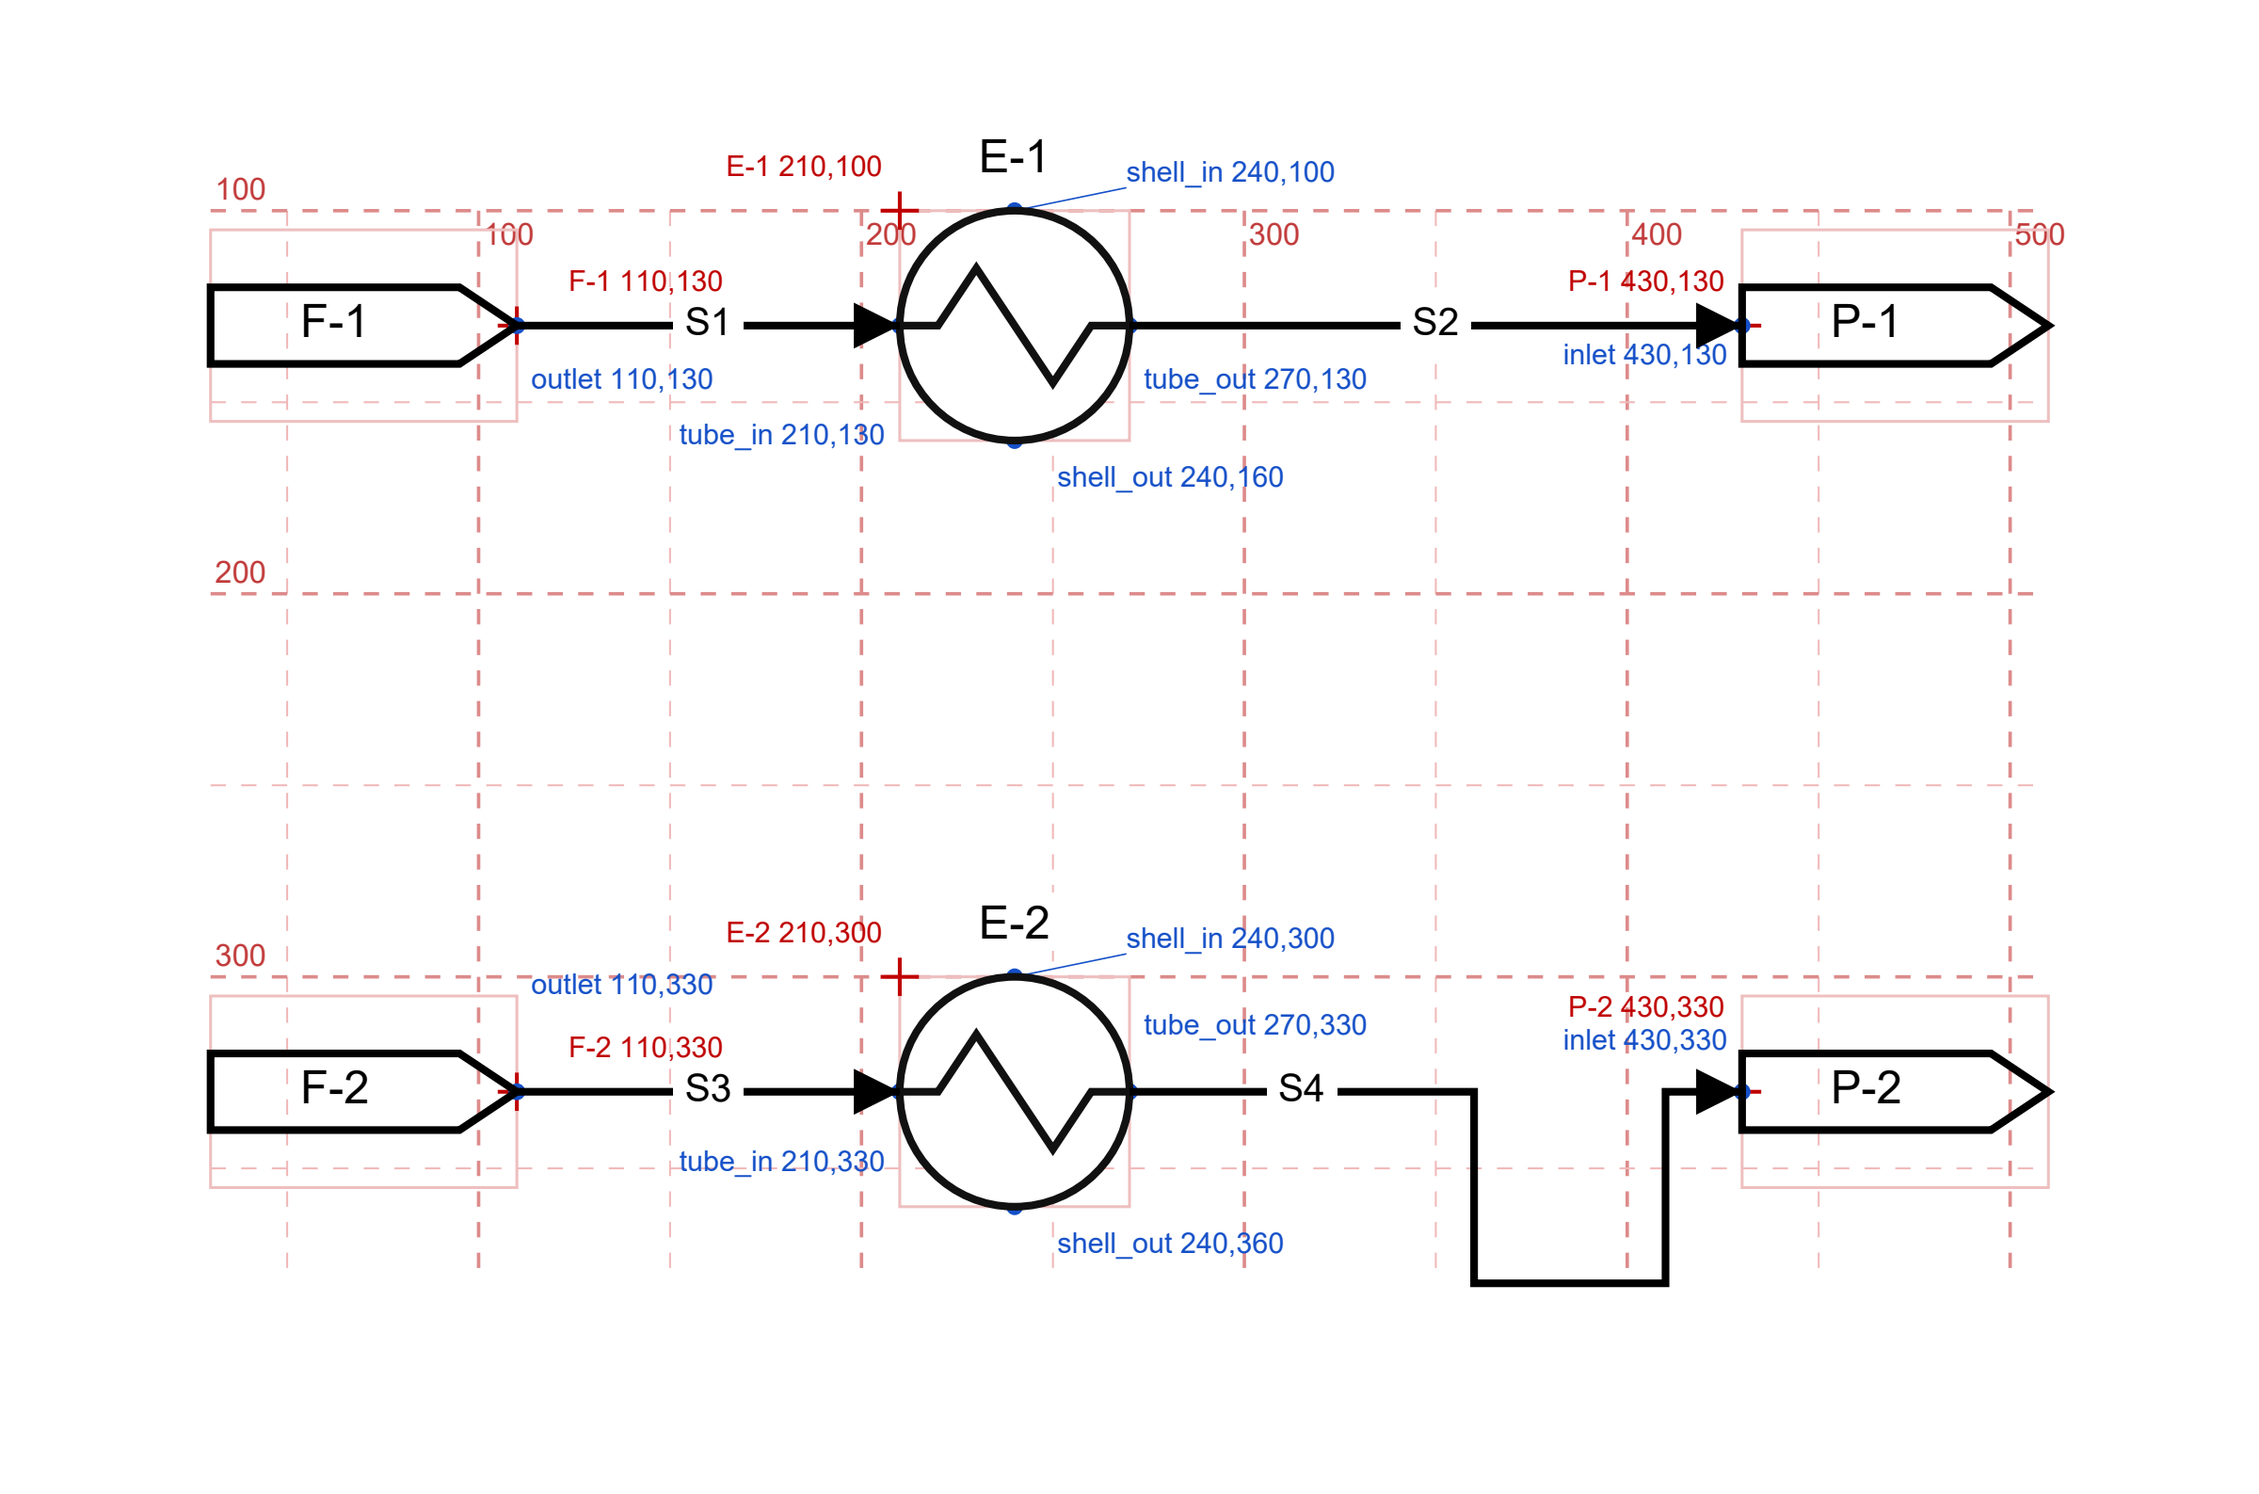
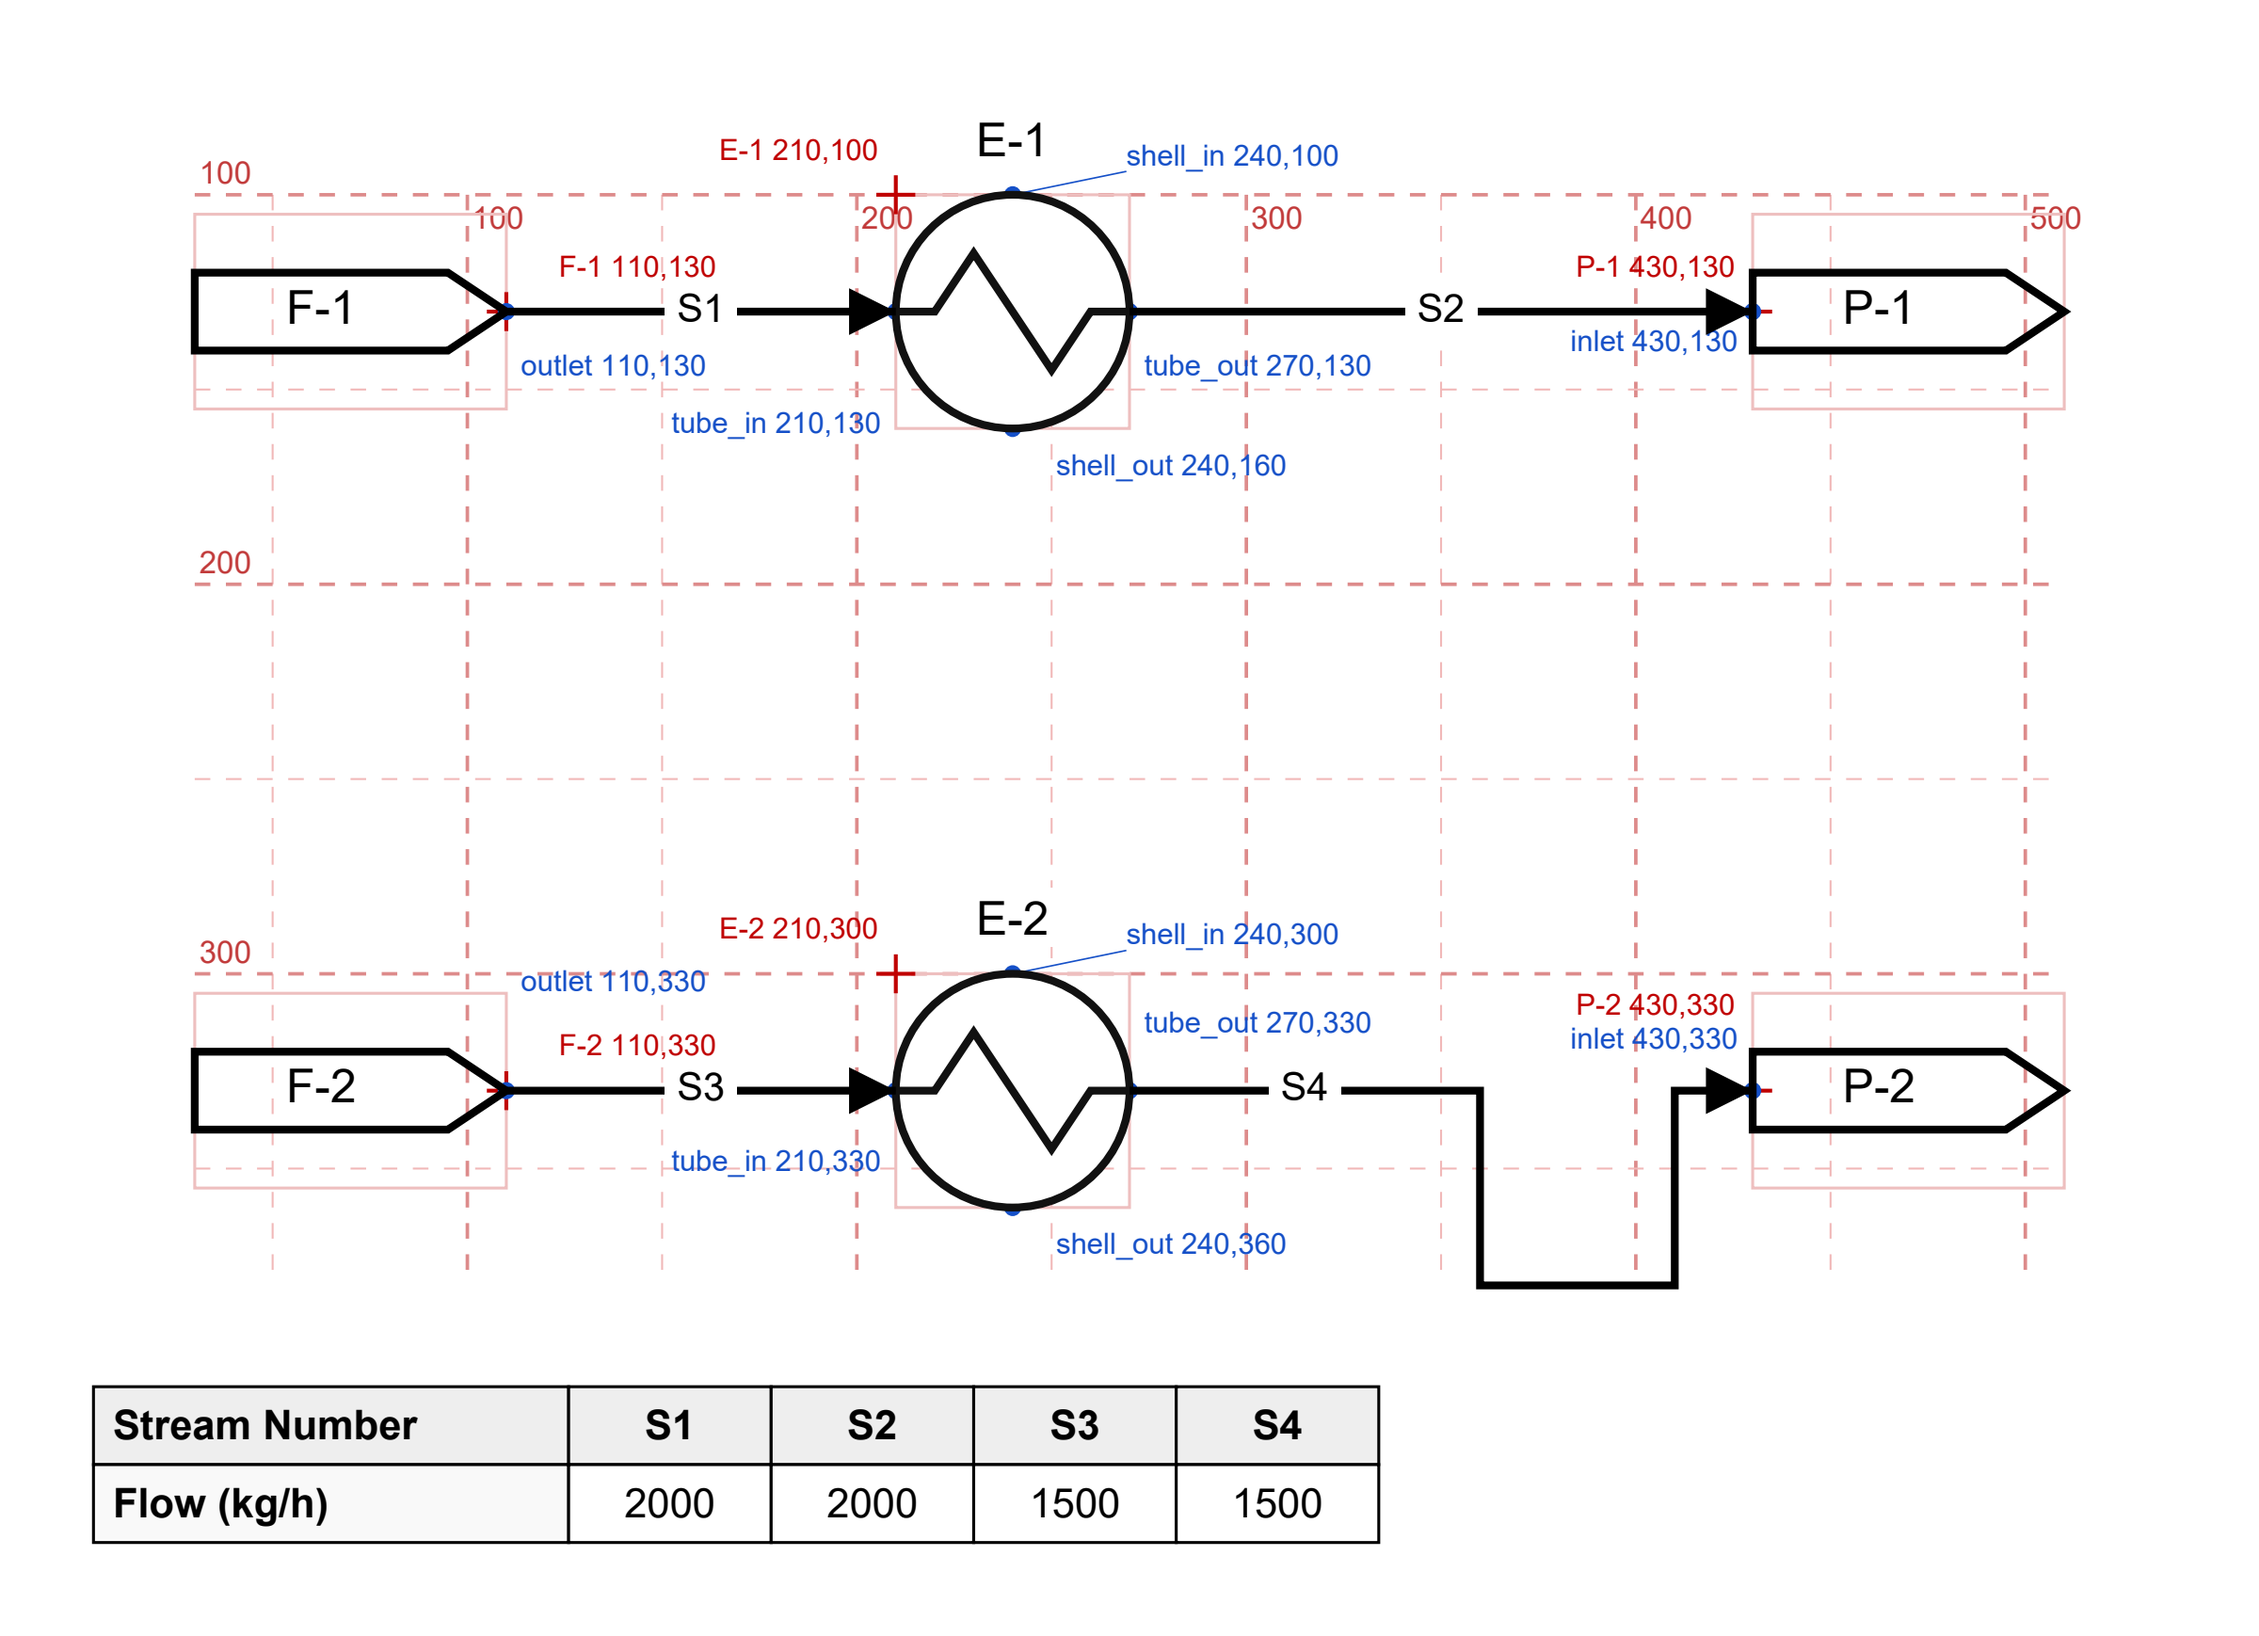
fix(examples): tabulate the manual-layout demo's boundary streams
02_manual_layout raised stream-table-missing (#410). Neither train does
anything but pass its fluid through one exchanger, so what leaves each
train equals what entered it; the two trains are unrelated demonstrations
of pin(), so their flow numbers are unrelated too. Render with
show_stream_table=True to report them.

diff --git a/tests/test_golden.py b/tests/test_golden.py
@@ -85,10 +85,10 @@ def _manual_layout() -> Flowsheet:
     f2 = fs.add(units.Feed("F-2")).pin(x=110, y=run_y)
     e2 = fs.add(units.HeatExchanger("E-2")).pin(x=210).pin(port="tube_in", y=run_y)
     p2 = fs.add(units.Product("P-2")).pin(x=430, y=run_y)
-    fs.connect(f1.outlet, e1.tube_in)
-    fs.connect(e1.tube_out, p1.inlet)
-    fs.connect(f2.outlet, e2.tube_in)
-    fs.connect(e2.tube_out, p2.inlet).via(
+    s1 = fs.connect(f1.outlet, e1.tube_in)
+    s2 = fs.connect(e1.tube_out, p1.inlet)
+    s3 = fs.connect(f2.outlet, e2.tube_in)
+    s4 = fs.connect(e2.tube_out, p2.inlet).via(
         [
             (360, 330),
             (360, 380),
@@ -96,6 +96,10 @@ def _manual_layout() -> Flowsheet:
             (410, 330),
         ]
     )
+    s1.properties = {"Flow (kg/h)": "2000"}
+    s2.properties = {"Flow (kg/h)": "2000"}
+    s3.properties = {"Flow (kg/h)": "1500"}
+    s4.properties = {"Flow (kg/h)": "1500"}
     return fs
 
 
@@ -4106,7 +4110,7 @@ SCENARIOS = {
     # a unit test. Every other scenario draws with it off, which is what holds
     # the rest of the corpus to being byte for byte what it was before the
     # feature existed.
-    "02_manual_layout": (_manual_layout, {"debug": True}),
+    "02_manual_layout": (_manual_layout, {"debug": True, "show_stream_table": True}),
     "03_distillation_train": (_distillation_train, {"show_stream_table": True, "border": "zone"}),
     "04_control_loop": (_control_loop, {}),
     "05_reactor_recycle": (_reactor_recycle, {}),

diff --git a/examples/02_manual_layout.py b/examples/02_manual_layout.py
@@ -43,20 +43,28 @@ def main():
     e2 = fs.add(HeatExchanger("E-2")).pin(x=210).pin(port="tube_in", y=run_y)
     p2 = fs.add(Product("P-2")).pin(x=430, y=run_y)
 
-    fs.connect(f1.outlet, e1.tube_in)
-    fs.connect(e1.tube_out, p1.inlet)
-    fs.connect(f2.outlet, e2.tube_in)
+    s1 = fs.connect(f1.outlet, e1.tube_in)
+    s2 = fs.connect(e1.tube_out, p1.inlet)
+    s3 = fs.connect(f2.outlet, e2.tube_in)
 
     # via() waypoints are absolute pixels, used verbatim.
-    fs.connect(e2.tube_out, p2.inlet).via([
+    s4 = fs.connect(e2.tube_out, p2.inlet).via([
         (360, 330),
         (360, 380),
         (410, 380),
         (410, 330),
     ])
 
+    # Neither train does anything but pass its fluid through one
+    # exchanger, so what leaves each train equals what entered it. The
+    # two trains are unrelated demonstrations, so their numbers are too.
+    s1.properties = {"Flow (kg/h)": "2000"}
+    s2.properties = {"Flow (kg/h)": "2000"}
+    s3.properties = {"Flow (kg/h)": "1500"}
+    s4.properties = {"Flow (kg/h)": "1500"}
+
     out_file = out("manual_layout.svg")
-    fs.render(out_file, debug=True)
+    fs.render(out_file, debug=True, show_stream_table=True)
     print(f"Flowsheet rendered successfully to {out_file}")
 
 
